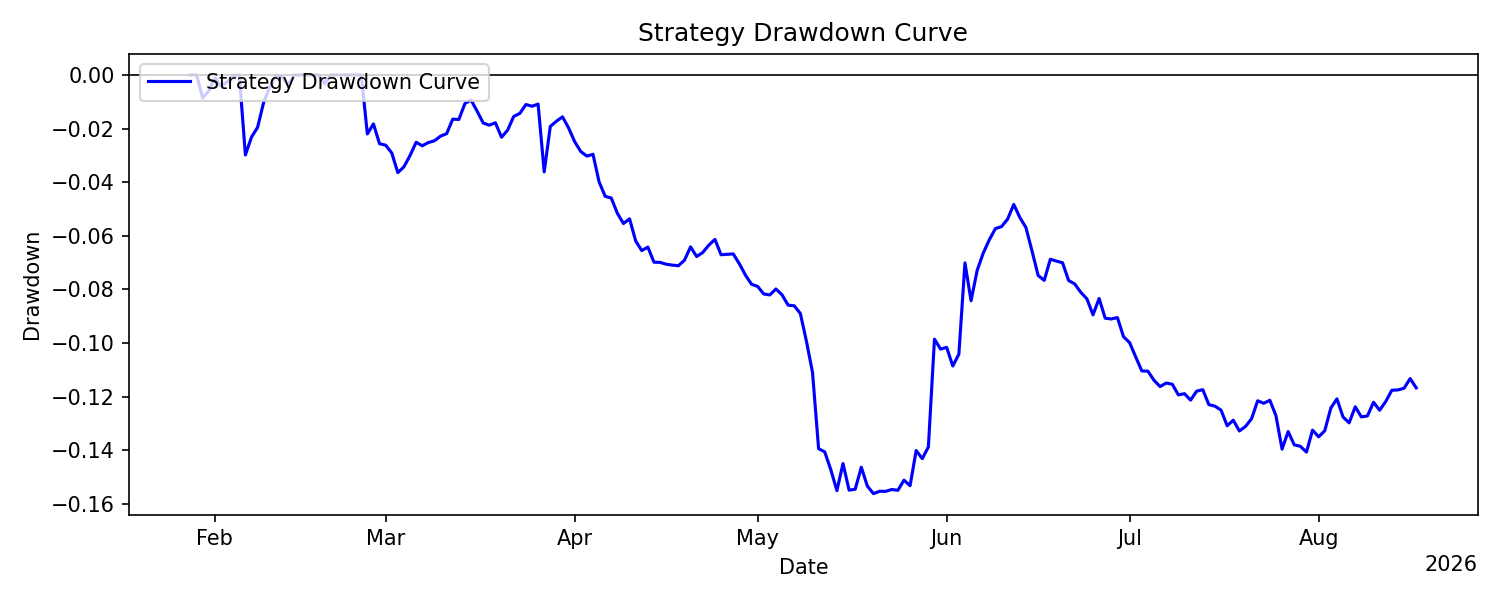
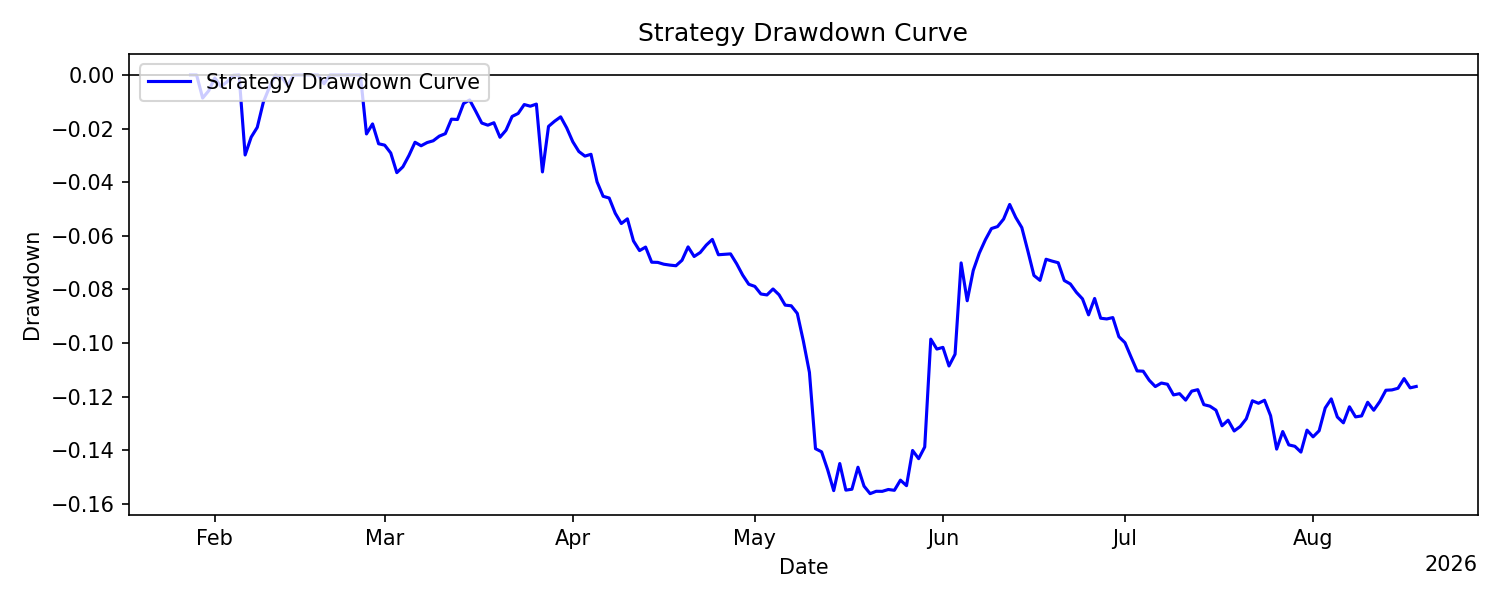
Update reports: 2026-08-18 00:02:45 UTC

diff --git a/README.md b/README.md
@@ -24,26 +24,26 @@ All results are live and reported net of transaction costs and slippage.
 <!-- METRICS_START -->
 | metric                       |        values |
 |:-----------------------------|--------------:|
-| Number of Observations       | 202           |
-| Mean Daily Return            |  -0.000296741 |
-| Daily Volatility             |   0.00821458  |
-| Mean Annualized Return       |  -0.10831     |
-| Annualized Volatility        |   0.156939    |
+| Number of Observations       | 203           |
+| Mean Daily Return            |  -0.000292422 |
+| Daily Volatility             |   0.00819445  |
+| Mean Annualized Return       |  -0.106734    |
+| Annualized Volatility        |   0.156555    |
 | Maximum Drawdown             |  -0.156146    |
-| Max Drawdown Duration (Days) | 173           |
-| Sharpe                       |  -0.690142    |
-| Sortino                      |  -0.950647    |
-| Calmar                       |  -0.693648    |
-| CAGR                         |  -0.113566    |
-| Skewness                     |   0.651988    |
-| Excess Kurtosis              |   8.9381      |
-| Win Rate                     |   0.480198    |
-| Profit Factor                |   0.8931      |
-| VaR 1%                       |  -0.0268597   |
+| Max Drawdown Duration (Days) | 174           |
+| Sharpe                       |  -0.681767    |
+| Sortino                      |  -0.93681     |
+| Calmar                       |  -0.683552    |
+| CAGR                         |  -0.112115    |
+| Skewness                     |   0.65193     |
+| Excess Kurtosis              |   8.9934      |
+| Win Rate                     |   0.482759    |
+| Profit Factor                |   0.894135    |
+| VaR 1%                       |  -0.0268467   |
 | CVaR 1%                      |  -0.0295742   |
-| VaR 5%                       |  -0.0105445   |
+| VaR 5%                       |  -0.0105021   |
 | CVaR 5%                      |  -0.0192921   |
-| Correlation with BTC         |   0.00777526  |
+| Correlation with BTC         |   0.00790058  |
 <!-- METRICS_END -->
 
 ## Sharpe Statistics
@@ -55,14 +55,14 @@ All results are live and reported net of transaction costs and slippage.
 | metric                     |   values |
 |:---------------------------|---------:|
 | alpha                      |   0.05   |
-| t-statistic                |  -0.5134 |
-| p-value                    |   0.6082 |
-| Daily Sharpe Ratio         |  -0.0361 |
-| Annualized Sharpe Ratio    |  -0.6901 |
-| Sharpe Standard Error      |   1.3657 |
-| C.I. Lower Bound           |  -3.3669 |
-| C.I. Upper Bound           |   1.9866 |
-| Bootstrap C.I. Lower Bound |  -3.5881 |
-| Bootstrap C.I. Upper Bound |   2.6144 |
+| t-statistic                |  -0.5084 |
+| p-value                    |   0.6117 |
+| Daily Sharpe Ratio         |  -0.0357 |
+| Annualized Sharpe Ratio    |  -0.6818 |
+| Sharpe Standard Error      |   1.3621 |
+| C.I. Lower Bound           |  -3.3514 |
+| C.I. Upper Bound           |   1.9879 |
+| Bootstrap C.I. Lower Bound |  -3.6231 |
+| Bootstrap C.I. Upper Bound |   2.7212 |
 <!-- SHARPE_END -->
 
